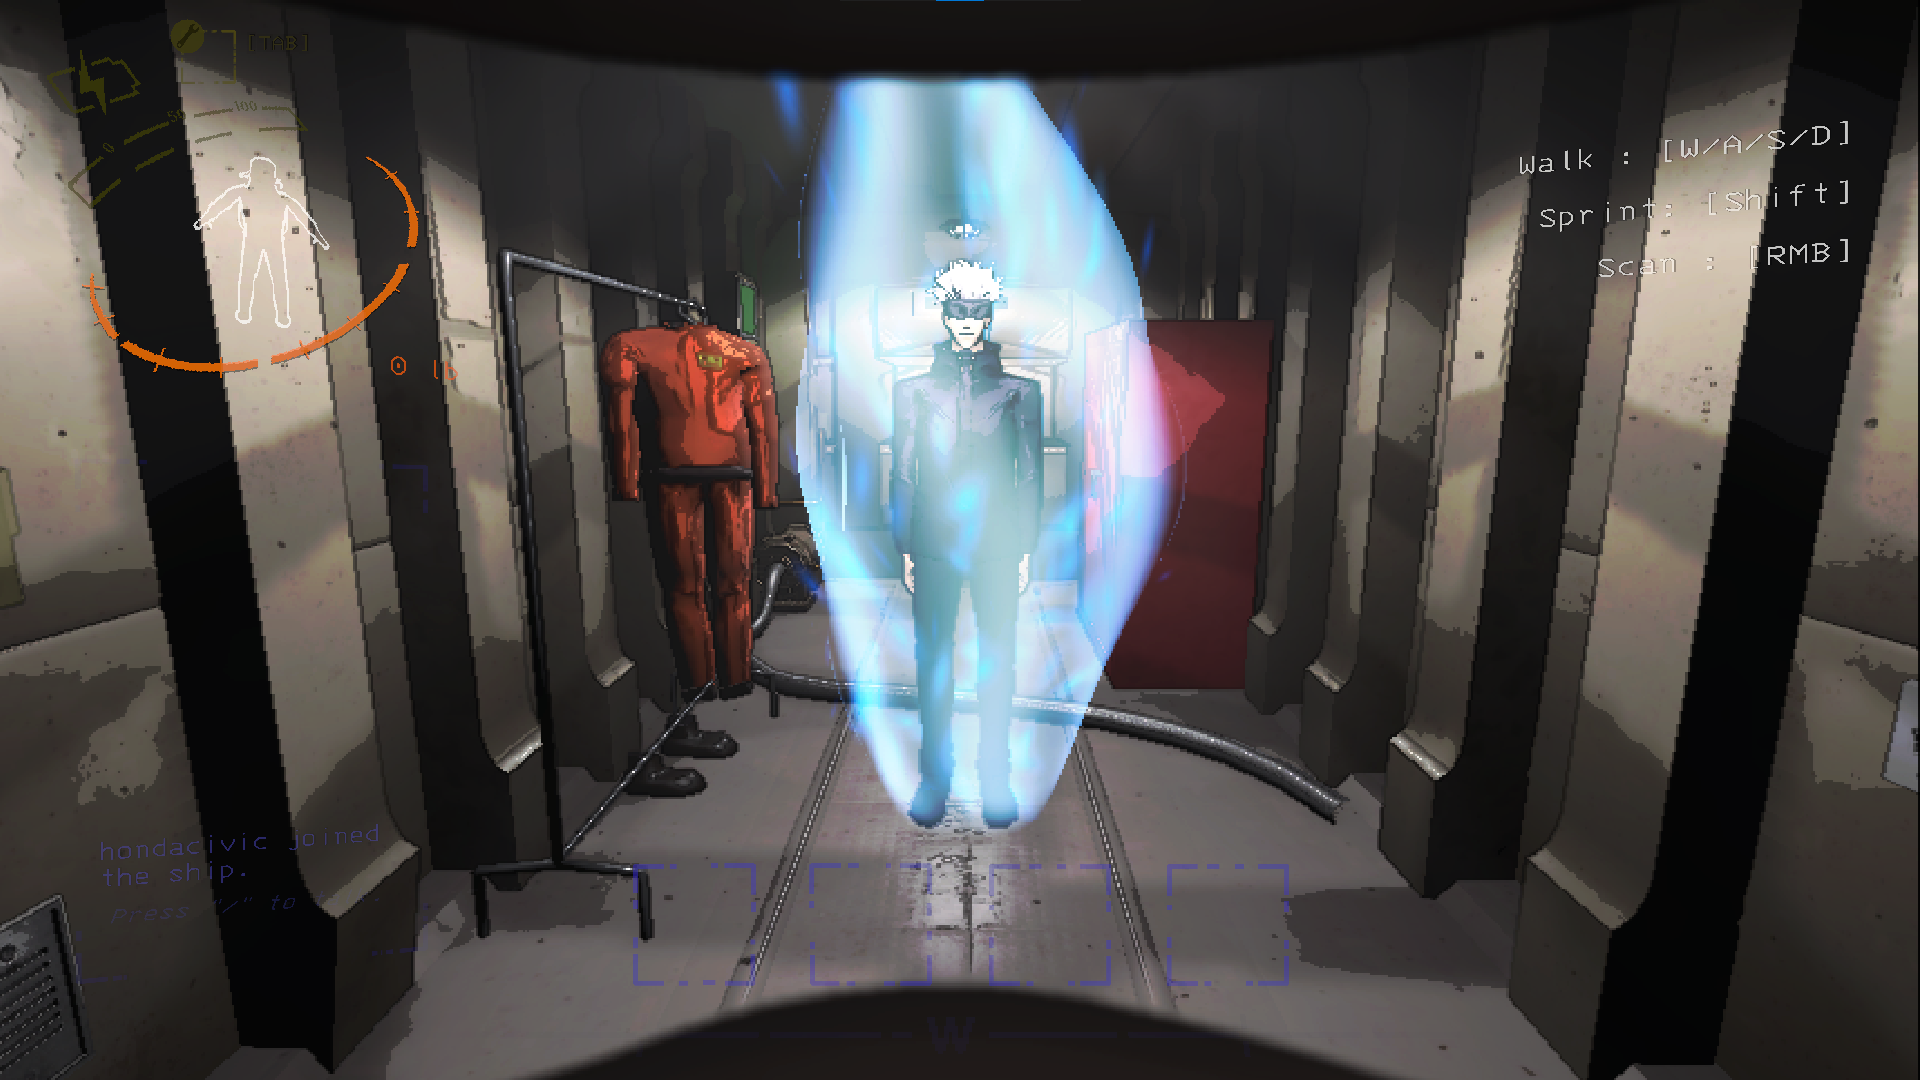
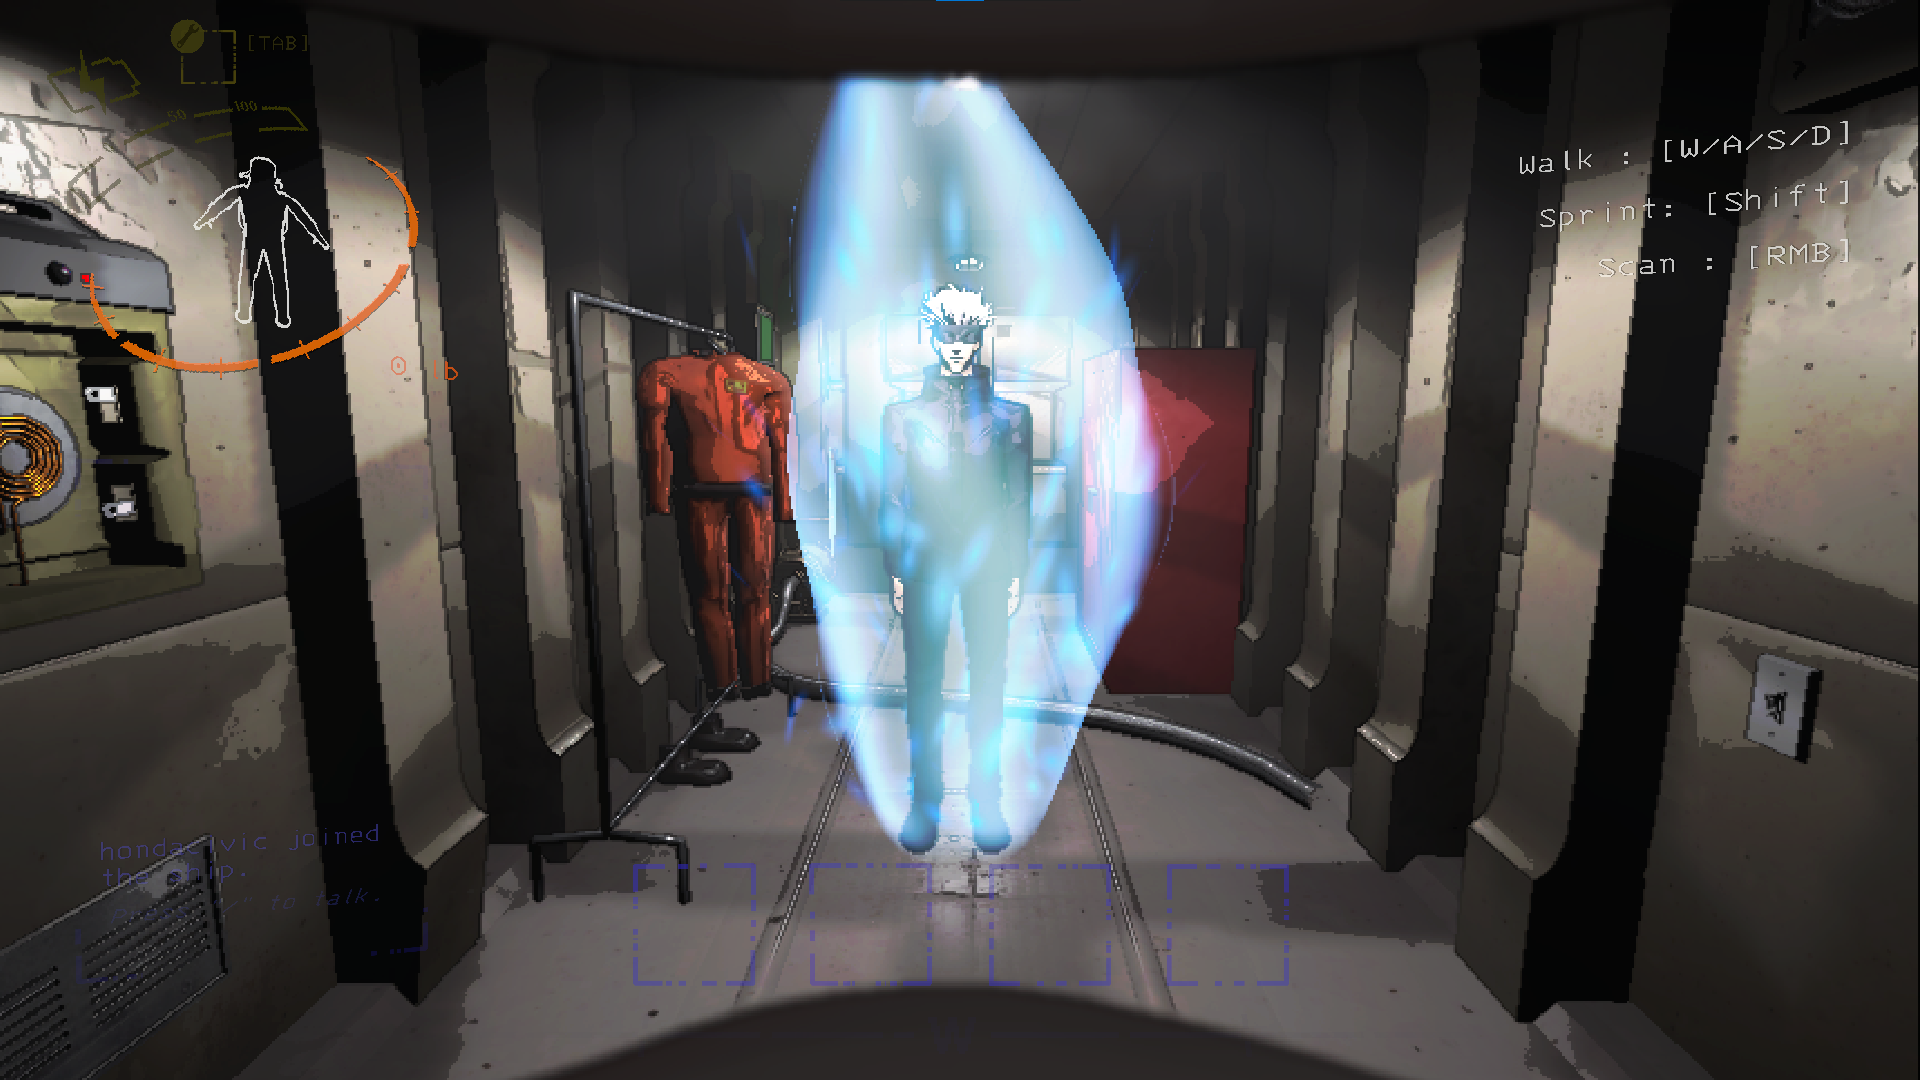
public release v0.3.3

diff --git a/src/GojoBracken/Plugin.cs b/src/GojoBracken/Plugin.cs
@@ -13,7 +13,7 @@ namespace GojoBracken
     {
         public const string PluginGuid = "FreakyFriday.GojoBracken";
         public const string PluginName = "Gojo Bracken";
-        public const string PluginVersion = "0.3.2";
+        public const string PluginVersion = "0.3.3";
 
         private RuntimeDiagnostics diagnostics;
         private BrackenRigReport rigReport;

diff --git a/docs/release-assets.md b/docs/release-assets.md
@@ -4,7 +4,7 @@ GojoBracken created by Malcolm Shi. The MIT license covers the repository code. 
 
 | Asset | Source and modifications | License or permission |
 | --- | --- | --- |
-| Gojo model, rig and textures | [Gojo Satoru Dance](https://sketchfab.com/models/556b63af173241d79598d62cf220671d/embed), uploaded by Ayanokoji031. The [source archive inspection](https://github.com/malcolmshi123/GojoBracken/blob/2e93f1836b7a0d1e6d6a404447b7a9cf24278ec0/archive/docs/model-evaluation.md#source-and-archive) found VALHAISTO GAMES in the listing and FreeFire New Male 3d Model By PaceGaming in the hierarchy. GojoBracken adapted the rig and HDRP materials, then edited the published 0.2.7 model in Blender. Edits cover symmetry, a relaxed standing posture, flat feet, connected hands, a smooth neck join, smooth shading and a rectangular layered jacket stripe. Native Unity import keeps the approved standing pose. | The [recorded Sketchfab API listing](https://api.sketchfab.com/v3/models/556b63af173241d79598d62cf220671d) identifies [CC BY 4.0](https://creativecommons.org/licenses/by/4.0/). Adapted files include attribution and modification notices. The license applies within the rights the uploader can license. |
+| Gojo model, rig and textures | [Gojo Satoru Dance](https://sketchfab.com/models/556b63af173241d79598d62cf220671d/embed), uploaded by Ayanokoji031. The [source archive inspection](https://github.com/malcolmshi123/GojoBracken/blob/2e93f1836b7a0d1e6d6a404447b7a9cf24278ec0/archive/docs/model-evaluation.md#source-and-archive) found VALHAISTO GAMES in the listing and FreeFire New Male 3d Model By PaceGaming in the hierarchy. GojoBracken adapted the rig and HDRP materials, then edited the published 0.2.7 model in Blender. Edits cover symmetry, a relaxed standing posture, flat feet, connected hands, a smooth neck join, smooth shading, lower inner armholes and a rectangular layered jacket stripe. The shoulder caps and original UV layout are unchanged. Native Unity import keeps the approved standing pose. | The [recorded Sketchfab API listing](https://api.sketchfab.com/v3/models/556b63af173241d79598d62cf220671d) identifies [CC BY 4.0](https://creativecommons.org/licenses/by/4.0/). Adapted files include attribution and modification notices. The license applies within the rights the uploader can license. |
 | Japanese voice line | Performed by Ashton Mak. Source recording: `ryoiki_tenkai_muryokusho.mp3`. The release keeps the mono voice stream and its playback gain/balance. | Ashton Mak gave permission to use the recording in the mod. |
 | Music | ANGELPLAYA - LET THEM HAVE IT [NCS Release]. Music provided by NoCopyrightSounds. [Track](https://ncs.io/LETTHEMHAVEIT) | NCS approved use of the track in GojoBracken. |
 | Aura | GojoBracken contributors; retained from the published bundle. | Project asset. |

diff --git a/docs/packaging.md b/docs/packaging.md
@@ -1,6 +1,6 @@
 # Packaging and release
 
-The 0.3.2 package contains the approved Blender model and existing aura, Japanese voice and music. Install BepInExPack 5.4.2305 and the release ZIP in a Lethal Company v81 profile. For a manual install, copy the ZIP's BepInEx folder into the profile. Keep exactly one GojoBracken.dll beside the extensionless gojobracken bundle.
+The 0.3.3 package contains the approved Blender model and existing aura, Japanese voice and music. Install BepInExPack 5.4.2305 and the release ZIP in a Lethal Company v81 profile. For a manual install, copy the ZIP's BepInEx folder into the profile. Keep exactly one GojoBracken.dll beside the extensionless gojobracken bundle.
 
 The packaged config enables development cosmetics and the standing model, with SoloLiveTest and RenderPreview disabled. Review existing custom settings when updating. The model and in-ship simulated cycle have been approved for release preparation; further live testing was waived. Multiplayer behavior and player-kill/body alignment remain unverified. See the [testing scope](in-game-testing.md).
 
@@ -16,7 +16,7 @@ powershell.exe -NoProfile -ExecutionPolicy RemoteSigned \
   -IconPath artifacts/unity/source/package/icon.png
 ```
 
-The builder reads the assembly version and writes dist/GojoBracken-0.3.2.zip. It includes README.md, license, credits, a 256x256 PNG icon, DLL, bundle and release config. It refuses to overwrite an existing ZIP. Use `-IncludeSoloConfig` only for a private solo-test package.
+The builder reads the assembly version and writes dist/GojoBracken-0.3.3.zip. It includes README.md, license, credits, a 256x256 PNG icon, DLL, bundle and release config. It refuses to overwrite an existing ZIP. Use `-IncludeSoloConfig` only for a private solo-test package.
 
 ## Verify
 
@@ -25,7 +25,7 @@ Use Mono.Cecil.dll from the BepInEx core directory to inspect DLL metadata witho
 ```bash
 powershell.exe -NoProfile -ExecutionPolicy RemoteSigned \
   -File scripts/Test-ReleasePackage.ps1 \
-  -PackagePath dist/GojoBracken-0.3.2.zip \
+  -PackagePath dist/GojoBracken-0.3.3.zip \
   -BundleDirectory artifacts/unity/mod-bundle \
   -CecilPath '/path/to/BepInEx/core/Mono.Cecil.dll'
 ```

diff --git a/docs/asset-pipeline.md b/docs/asset-pipeline.md
@@ -23,7 +23,7 @@ Keep these local authoring files when cleaning build output. Git ignores them:
 
 The model has seven skinned meshes and 31 bones. Its exported bind poses and standing controller keep the approved pose after runtime attachment disables the Animator.
 
-The jacket placket has two closed rectangular layers, each with a constant width and defined edges. The hands have connected surfaces, and the neck joins smoothly. Custom normals smooth the edited surfaces. Blender fingerprints include posed normals, and Unity checks positions and normals, including a test that rejects an inverted normal. The model has no independent finger animation or calibrated corpse grip.
+The jacket's inner armholes sit lower, with the original shoulder caps unchanged. The placket has two closed rectangular layers, each with a constant width and defined edges. The hands have connected surfaces, and the neck joins smoothly. Custom normals smooth the edited surfaces. Blender fingerprints include posed normals, and Unity checks positions and normals, including a test that rejects an inverted normal. The model has no independent finger animation or calibrated corpse grip.
 
 Run from the checkout root in Git Bash:
 

diff --git a/docs/in-game-testing.md b/docs/in-game-testing.md
@@ -28,7 +28,7 @@ powershell.exe -NoProfile -ExecutionPolicy RemoteSigned \
   -File scripts/Test-GameProfile.ps1 -Mode "$MODE" \
   -GameDirectory "$(cygpath -w "$GAME")" \
   -ProfileDirectory "$(cygpath -w "$PROFILE")" \
-  -ExpectedManifest "$(cygpath -w "$PWD/dist/GojoBracken-0.3.2.json")"
+  -ExpectedManifest "$(cygpath -w "$PWD/dist/GojoBracken-0.3.3.json")"
 ```
 
 Use the expected manifest from the release package verifier. Add -OutputPath to choose where the report is saved. Stop if preflight fails and keep the version guard enabled. Reports always have gameplayValidated=false; simulatedChecksOnly=true marks RenderPreview.
